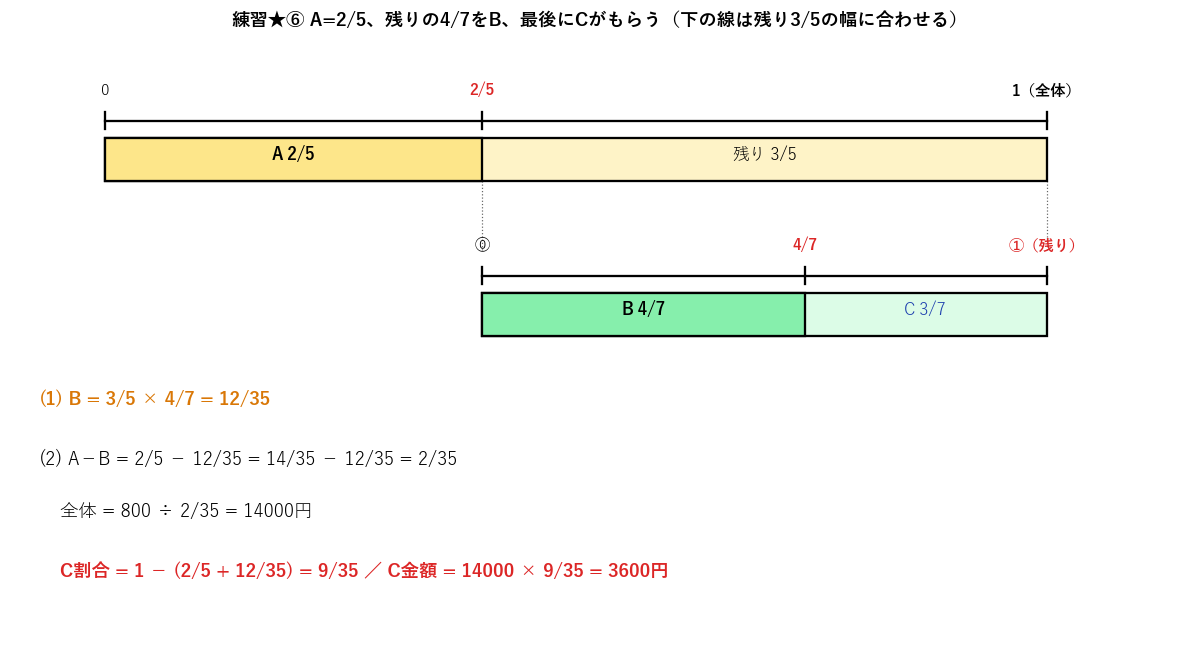
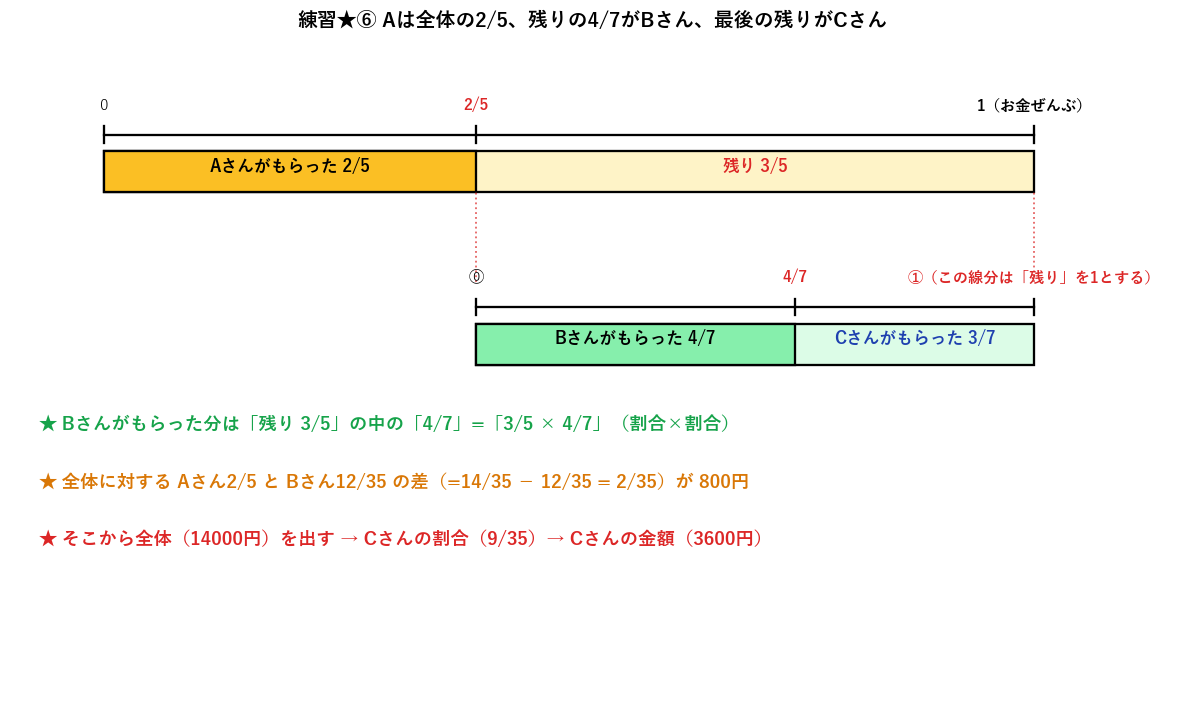
improve(wariai62): thorough step-by-step dialogs (why+how) + detailed R6 figure with red 残り

diff --git a/manabie-kaisetsu/index.html b/manabie-kaisetsu/index.html
@@ -2214,7 +2214,20 @@
       <div class="q-text">400ページある本の <b>2/5</b> を今日までに読み、残りの <b>1/6</b> を明日読もうと思います。明日読むのは何ページですか。</div>
       <figure class="fig"><img src="figs/W1_400_25_16.png" alt="例題1 線分図"><figcaption>📍 例題1の線分図（2本）</figcaption></figure>
       <div class="dialog">
-        <div class="d-line teacher"><span class="avatar">👩🏫</span><span class="bubble">きょうのポイントは「のこり」だよ。問題文をよく読んでみて。「<b>のこり</b>の1/6」って書いてあるよね。</span></div>
+        <div class="d-line teacher"><span class="avatar">👩🏫</span><span class="bubble">この問題でいちばん大事なのは「<b style='color:#dc2626'>のこり</b>」っていう言葉だよ。問題文をもう一度よく読んでみて。</span></div>
+        <div class="d-line sara"><span class="avatar">🧒</span><span class="bubble">「のこりの1/6」って書いてある。</span></div>
+        <div class="d-line teacher"><span class="avatar">👩🏫</span><span class="bubble">そう。じゃあ「のこり」ってどこのこと？ 全部のこと？</span></div>
+        <div class="d-line sara"><span class="avatar">🧒</span><span class="bubble">えーと、もう2/5は今日読んじゃったから…のこってるのは、まだ読んでない部分？</span></div>
+        <div class="d-line teacher"><span class="avatar">👩🏫</span><span class="bubble">大正解！「のこり」=「まだ読んでないページ」のことだよ。<br>だから「のこりの1/6」を出すには、<b>まずのこりが何ページか</b>を先に計算するんだ。</span></div>
+        <div class="d-line sara"><span class="avatar">🧒</span><span class="bubble">なるほど！</span></div>
+        <div class="d-line teacher"><span class="avatar">👩🏫</span><span class="bubble">じゃあのこりは全体のどれくらい？ 1から2/5を引けば出るよ。</span></div>
+        <div class="d-line sara"><span class="avatar">🧒</span><span class="bubble">1 − 2/5 = 5/5 − 2/5 = 3/5</span></div>
+        <div class="d-line teacher"><span class="avatar">👩🏫</span><span class="bubble">いいね！じゃあ400ページの3/5を計算してみよう。</span></div>
+        <div class="d-line sara"><span class="avatar">🧒</span><span class="bubble">400 × 3/5 = 240ページ</span></div>
+        <div class="d-line teacher"><span class="avatar">👩🏫</span><span class="bubble">バッチリ！この <b>240ページ</b> がのこり。明日読むのはこの中の1/6だから…？</span></div>
+        <div class="d-line sara"><span class="avatar">🧒</span><span class="bubble">240 × 1/6 = 240 ÷ 6 = 40ページ！</span></div>
+        <div class="d-line teacher"><span class="avatar">👩🏫</span><span class="bubble">正解！答えは <b>40ページ</b> だね。</span></div>
+      </div>
         <div class="d-line sara"><span class="avatar">🧒</span><span class="bubble">ほんとだ。じゃあ「のこり」って何のこと？</span></div>
         <div class="d-line teacher"><span class="avatar">👩🏫</span><span class="bubble">もう2/5は今日読んじゃったよね。だから「のこり」は、まだ読んでないページのことだよ。</span></div>
         <div class="d-line sara"><span class="avatar">🧒</span><span class="bubble">なるほど。じゃあ、のこりが何ページか先に出せばいいんだ。</span></div>
@@ -2232,7 +2245,14 @@
       <div class="q-text">300ページある本の <b>1/3</b> を今日までに読み、残りの <b>1/4</b> を明日読もうと思います。明日読むのは何ページですか。</div>
       <figure class="fig"><img src="figs/W2_300_13_14.png" alt="例題2 線分図"><figcaption>📍 例題2の線分図（2本）</figcaption></figure>
       <div class="dialog">
-        <div class="d-line teacher"><span class="avatar">👩🏫</span><span class="bubble">例題1とまったく同じ考え方だよ。まず「のこり」は何ページかな？</span></div>
+        <div class="d-line teacher"><span class="avatar">👩🏫</span><span class="bubble">例題1とおんなじ考え方だよ。「のこりの1/4」って書いてあるから、まずのこりを出そう。</span></div>
+        <div class="d-line sara"><span class="avatar">🧒</span><span class="bubble">読んだのは1/3だから、のこりは 1 − 1/3 = 3/3 − 1/3 = 2/3。</span></div>
+        <div class="d-line teacher"><span class="avatar">👩🏫</span><span class="bubble">そう！じゃあ300ページの2/3はいくつ？</span></div>
+        <div class="d-line sara"><span class="avatar">🧒</span><span class="bubble">300 × 2/3 = 200ページ。</span></div>
+        <div class="d-line teacher"><span class="avatar">👩🏫</span><span class="bubble">バッチリ。明日読むのはその200ページの1/4だから？</span></div>
+        <div class="d-line sara"><span class="avatar">🧒</span><span class="bubble">200 × 1/4 = 200 ÷ 4 = 50ページ！</span></div>
+        <div class="d-line teacher"><span class="avatar">👩🏫</span><span class="bubble">正解！「のこりの○○」が出てきたら、<b>まず のこり を計算</b>。これだけ覚えておこう。</span></div>
+      </div>
         <div class="d-line sara"><span class="avatar">🧒</span><span class="bubble">読んだのは1/3、のこりは2/3 だから 300 × 2/3 = 200ページ。</span></div>
         <div class="d-line teacher"><span class="avatar">👩🏫</span><span class="bubble">いいね！明日読むのはその200ページの1/4。</span></div>
         <div class="d-line sara"><span class="avatar">🧒</span><span class="bubble">200 ÷ 4 = 50ページ！</span></div>
@@ -2245,7 +2265,14 @@
     <div class="question" id="w62-concept"><h3><span class="qnum">ポイント</span>2本の線分図の使い分け</h3>
       <figure class="fig"><img src="figs/W_concept.png" alt="2本の線分図の概念"><figcaption>📍 1本目=1、2本目=① で区別</figcaption></figure>
       <div class="dialog">
-        <div class="d-line teacher"><span class="avatar">👩🏫</span><span class="bubble">「のこりの1/6」「のこりの3/5」みたいに、<b>のこり</b>が出てくる問題は線分図を2本かくよ。</span></div>
+        <div class="d-line teacher"><span class="avatar">👩🏫</span><span class="bubble">「のこりの1/6」「のこりの3/5」みたいに、問題文に「<b style='color:#dc2626'>のこり</b>」が出てくるときは、線分図を <b>2本</b> かくよ。</span></div>
+        <div class="d-line sara"><span class="avatar">🧒</span><span class="bubble">どうして2本も？</span></div>
+        <div class="d-line teacher"><span class="avatar">👩🏫</span><span class="bubble">1本だと「全体の1/6」なのか「のこりの1/6」なのかが、見ても分からなくなっちゃうからだよ。</span></div>
+        <div class="d-line sara"><span class="avatar">🧒</span><span class="bubble">あー、たしかに混ざりそう。</span></div>
+        <div class="d-line teacher"><span class="avatar">👩🏫</span><span class="bubble">だから1本目は <b>全体</b>を「1」と書く。2本目は <b>のこり</b>を「①」（マルイチ）と書いて区別するんだ。</span></div>
+        <div class="d-line sara"><span class="avatar">🧒</span><span class="bubble">ふつうの 1 と マルイチ ① を使い分けるんだね！</span></div>
+        <div class="d-line teacher"><span class="avatar">👩🏫</span><span class="bubble">そう！「1」は全体ぜんぶ、「①」はのこりぜんぶ、を表しているよ。</span></div>
+      </div>
         <div class="d-line sara"><span class="avatar">🧒</span><span class="bubble">どうして2本？</span></div>
         <div class="d-line teacher"><span class="avatar">👩🏫</span><span class="bubble">1本目は <b>全体</b> をふつうに「1」と書く。2本目は <b>のこり</b> を「①」（マルイチ）と書くよ。</span></div>
         <div class="d-line sara"><span class="avatar">🧒</span><span class="bubble">分けて書くと、まざらないね！</span></div>
@@ -2261,7 +2288,16 @@
       <div class="q-text">2000円持って買い物に行き、はじめ <b>2/5</b> のお金を使って本を買いました。次に、残りの <b>1/3</b> のお金を使ってノートを買いました。<br>② 本を買った残りのお金は何円ですか。<br>③ ノートを買うのに使ったお金は何円ですか。</div>
       <figure class="fig"><img src="figs/Y1_2000.png" alt="要点(1) 線分図"><figcaption>📍 2本の線分図（本／ノート）</figcaption></figure>
       <div class="dialog">
-        <div class="d-line teacher"><span class="avatar">👩🏫</span><span class="bubble">お買い物の問題だよ。まず、2000円のうち2/5で本を買ったよね。</span></div>
+        <div class="d-line teacher"><span class="avatar">👩🏫</span><span class="bubble">お買い物の話だね。2000円持ってて、まず本を買ったよ。</span></div>
+        <div class="d-line sara"><span class="avatar">🧒</span><span class="bubble">本に2/5使ったから…</span></div>
+        <div class="d-line teacher"><span class="avatar">👩🏫</span><span class="bubble">そう、本の値段は 2000 × 2/5 = 800円。じゃあ本を買ったあと、お財布の中はいくら？</span></div>
+        <div class="d-line sara"><span class="avatar">🧒</span><span class="bubble">2000 − 800 = 1200円！</span></div>
+        <div class="d-line teacher"><span class="avatar">👩🏫</span><span class="bubble">正解！もう一つの計算の仕方として「のこりは3/5」だから 2000 × 3/5 でも同じ答えになるよ。</span></div>
+        <div class="d-line sara"><span class="avatar">🧒</span><span class="bubble">2000 × 3/5 = 1200円。一緒だ！</span></div>
+        <div class="d-line teacher"><span class="avatar">👩🏫</span><span class="bubble">そう！これが ②の答え。じゃあ次に、その1200円の1/3でノートを買うよ。ノート代は？</span></div>
+        <div class="d-line sara"><span class="avatar">🧒</span><span class="bubble">1200 × 1/3 = 1200 ÷ 3 = 400円！</span></div>
+        <div class="d-line teacher"><span class="avatar">👩🏫</span><span class="bubble">バッチリ！「のこりの1/3」のもとは <b>本のあとの1200円</b>。これを間違えないでね。</span></div>
+      </div>
         <div class="d-line sara"><span class="avatar">🧒</span><span class="bubble">じゃあ本のあと、お財布にいくらのこってるかな？</span></div>
         <div class="d-line teacher"><span class="avatar">👩🏫</span><span class="bubble">そう、それを最初に出そう。本は2/5使った → のこりは 3/5。</span></div>
         <div class="d-line sara"><span class="avatar">🧒</span><span class="bubble">2000 × 3/5 = 1200円！ これが本を買った残りだね。</span></div>
@@ -2277,7 +2313,22 @@
       <div class="q-text">青色のテープがあります。1回目に全体の <b>25%</b> を使い、2回目は残りの <b>60%</b> を使ったところ、残りの長さは <b>48cm</b> になりました。<br>② 1回目に使った残りの長さは何cmですか。<br>③ はじめの長さは何cmでしたか。</div>
       <figure class="fig"><img src="figs/Y2_tape.png" alt="要点(2) 線分図"><figcaption>📍 2本の線分図（1回目/2回目）</figcaption></figure>
       <div class="dialog">
-        <div class="d-line teacher"><span class="avatar">👩🏫</span><span class="bubble">これは少しむずかしいよ。「最後にのこったのが48cm」しか教えてくれないんだ。</span></div>
+        <div class="d-line teacher"><span class="avatar">👩🏫</span><span class="bubble">これはちょっとむずかしい問題。最後に「のこりが48cm」って言われてるよ。</span></div>
+        <div class="d-line sara"><span class="avatar">🧒</span><span class="bubble">はじめの長さがわからないのに、最後の48cmだけ？ どうやるの？</span></div>
+        <div class="d-line teacher"><span class="avatar">👩🏫</span><span class="bubble">だいじょうぶ。<b>うしろから順にたどっていけば</b>必ず出せるよ。<br>まず、最後のところ（2回目）からみていこう。</span></div>
+        <div class="d-line sara"><span class="avatar">🧒</span><span class="bubble">2回目は「のこりの60%」を使ったんだよね。</span></div>
+        <div class="d-line teacher"><span class="avatar">👩🏫</span><span class="bubble">そう。60%使ったあとに、何%のこるかな？</span></div>
+        <div class="d-line sara"><span class="avatar">🧒</span><span class="bubble">100% − 60% = 40%</span></div>
+        <div class="d-line teacher"><span class="avatar">👩🏫</span><span class="bubble">そう！この <b style='color:#dc2626'>40%</b> が <b style='color:#dc2626'>48cm</b> なんだね。<br>「40%が48cm」ってわかると、「100%（=のこり全部）」が出せるよ。</span></div>
+        <div class="d-line sara"><span class="avatar">🧒</span><span class="bubble">えーと、40%が48cmだから…48 ÷ 0.4 = 120cm！</span></div>
+        <div class="d-line teacher"><span class="avatar">👩🏫</span><span class="bubble">バッチリ！② は <b>120cm</b>。これが「1回目を使ったあとののこり」だね。</span></div>
+        <div class="d-line sara"><span class="avatar">🧒</span><span class="bubble">じゃあ、はじめの長さも同じやり方で出せそう。</span></div>
+        <div class="d-line teacher"><span class="avatar">👩🏫</span><span class="bubble">そう！もう1段戻ろう。1回目に <b>25%</b> 使ったから、のこりは何%？</span></div>
+        <div class="d-line sara"><span class="avatar">🧒</span><span class="bubble">100% − 25% = 75%</span></div>
+        <div class="d-line teacher"><span class="avatar">👩🏫</span><span class="bubble">そう。75%が120cm。じゃあもとの100%（はじめの長さ）は？</span></div>
+        <div class="d-line sara"><span class="avatar">🧒</span><span class="bubble">120 ÷ 0.75 = 160cm！</span></div>
+        <div class="d-line teacher"><span class="avatar">👩🏫</span><span class="bubble">完璧！「最後 → 1つ前 → そのまた1つ前」と順番にたどれば、必ず答えにたどり着くよ。</span></div>
+      </div>
         <div class="d-line sara"><span class="avatar">🧒</span><span class="bubble">え、はじめの長さがわからないのに、48cmだけ？</span></div>
         <div class="d-line teacher"><span class="avatar">👩🏫</span><span class="bubble">だいじょうぶ！うしろから順に考えていけば出せるよ。まず、2回目について考えよう。</span></div>
         <div class="d-line sara"><span class="avatar">🧒</span><span class="bubble">2回目は「のこりの60%」を使ったんだよね。</span></div>
@@ -2303,7 +2354,18 @@
       <div class="q-text">BさんはAさんの2倍のおはじきを持っています。CさんはBさんの3倍のおはじきを持っています。CさんはAさんの何倍のおはじきを持っているでしょうか。</div>
       <figure class="fig"><img src="figs/K1_concept.png" alt="割合×割合の概念"><figcaption>📍 もとを1つにそろえる</figcaption></figure>
       <div class="dialog">
-        <div class="d-line teacher"><span class="avatar">👩🏫</span><span class="bubble">おはじきの問題だよ。BさんはAさんの2倍、CさんはBさんの3倍。CさんはAさんの何倍？</span></div>
+        <div class="d-line teacher"><span class="avatar">👩🏫</span><span class="bubble">おはじきの問題。BさんはAさんの2倍、CさんはBさんの3倍持ってる。</span></div>
+        <div class="d-line sara"><span class="avatar">🧒</span><span class="bubble">Cさんは Aさんの何倍？ うーん…</span></div>
+        <div class="d-line teacher"><span class="avatar">👩🏫</span><span class="bubble">じゃあAさんが5個持ってるとして考えてみよう。Bさんは？</span></div>
+        <div class="d-line sara"><span class="avatar">🧒</span><span class="bubble">5の2倍だから10個！</span></div>
+        <div class="d-line teacher"><span class="avatar">👩🏫</span><span class="bubble">Cさんは10個の3倍だから？</span></div>
+        <div class="d-line sara"><span class="avatar">🧒</span><span class="bubble">10 × 3 = 30個！</span></div>
+        <div class="d-line teacher"><span class="avatar">👩🏫</span><span class="bubble">そう！じゃあAさん5個に対してCさん30個は、何倍？</span></div>
+        <div class="d-line sara"><span class="avatar">🧒</span><span class="bubble">30 ÷ 5 = 6倍！</span></div>
+        <div class="d-line teacher"><span class="avatar">👩🏫</span><span class="bubble">そう！じつは「2倍 × 3倍 = 6倍」って、<b>2つの倍率をかけるだけで出る</b>んだ。</span></div>
+        <div class="d-line sara"><span class="avatar">🧒</span><span class="bubble">えっそれでいいの？</span></div>
+        <div class="d-line teacher"><span class="avatar">👩🏫</span><span class="bubble">そう。これが「<b style='color:#dc2626'>割合×割合</b>」の考え方だよ。<br>「のこりの○○」みたいに2段ある問題でも、これでまとめて計算できるんだ。</span></div>
+      </div>
         <div class="d-line sara"><span class="avatar">🧒</span><span class="bubble">うーん、Bさんを通すとややこしい…</span></div>
         <div class="d-line teacher"><span class="avatar">👩🏫</span><span class="bubble">じゃあAさんが5個持ってるとしてやってみよう。Bさんは？</span></div>
         <div class="d-line sara"><span class="avatar">🧒</span><span class="bubble">5の2倍だから10個！</span></div>
@@ -2318,7 +2380,16 @@
       <div class="q-text">ある本全体の <b>2/5</b> を今日までに読み、残りの <b>1/6</b> を明日読もうと思います。<br>(1) 残りは本全体のどれだけですか。<br>(2) 明日読むのは、本全体のどれだけにあたりますか。</div>
       <figure class="fig"><img src="figs/K2_book.png" alt="本全体の割合"><figcaption>📍 全体基準で見る</figcaption></figure>
       <div class="dialog">
-        <div class="d-line teacher"><span class="avatar">👩🏫</span><span class="bubble">例題1と同じシチュエーションだけど、聞いてるのが「<b>全体のどれだけ</b>」なのがポイント。</span></div>
+        <div class="d-line teacher"><span class="avatar">👩🏫</span><span class="bubble">例題1とよく似た問題だけど、答えが <b>ページ数</b> じゃなくて <b>分数（全体のどれだけ）</b> なのがポイント。</span></div>
+        <div class="d-line sara"><span class="avatar">🧒</span><span class="bubble">ページ数じゃなくて分数で答えるんだね。</span></div>
+        <div class="d-line teacher"><span class="avatar">👩🏫</span><span class="bubble">そう。まず のこりは全体のどれだけ？</span></div>
+        <div class="d-line sara"><span class="avatar">🧒</span><span class="bubble">1 − 2/5 = 3/5</span></div>
+        <div class="d-line teacher"><span class="avatar">👩🏫</span><span class="bubble">いいね。じゃあ明日読むのは、その のこりの1/6 だね。</span></div>
+        <div class="d-line sara"><span class="avatar">🧒</span><span class="bubble">えーと、それを全体基準にすると…？</span></div>
+        <div class="d-line teacher"><span class="avatar">👩🏫</span><span class="bubble">ここで「<b>割合×割合</b>」が使えるよ。<br>のこり（全体の3/5）の中の1/6 = 3/5 × 1/6</span></div>
+        <div class="d-line sara"><span class="avatar">🧒</span><span class="bubble">3/5 × 1/6 = 3/30 = 1/10</span></div>
+        <div class="d-line teacher"><span class="avatar">👩🏫</span><span class="bubble">バッチリ！明日読むのは <b>全体の1/10</b>。<br>これが「のこりの○○ → 全体の○○」に直す方法だよ。</span></div>
+      </div>
         <div class="d-line sara"><span class="avatar">🧒</span><span class="bubble">ページ数じゃなくて、分数で答えるってこと？</span></div>
         <div class="d-line teacher"><span class="avatar">👩🏫</span><span class="bubble">そう！のこりは全体の何分のいくつ？</span></div>
         <div class="d-line sara"><span class="avatar">🧒</span><span class="bubble">1 − 2/5 = 3/5。</span></div>
@@ -2338,7 +2409,18 @@
       <div class="q-text">あきら君の学校の6年生のうち、<b>6/11</b> は女子です。女子の <b>30%</b> にあたる <b>54人</b> がメガネをかけています。<br>(1) 女子の人数は何人ですか。<br>(2) 6年生の人数は何人ですか。</div>
       <figure class="fig"><img src="figs/R1_girls.png" alt="練習① 線分図"><figcaption>📍 女子を「①」基準にする</figcaption></figure>
       <div class="dialog">
-        <div class="d-line teacher"><span class="avatar">👩🏫</span><span class="bubble">この問題は「数が少ない方→多い方」へ進めるよ。54人 → 女子 → 6年生 の順番。</span></div>
+        <div class="d-line teacher"><span class="avatar">👩🏫</span><span class="bubble">この問題は「少ない人数 → 多い人数」へ進めていくよ。<br>「54人」から始まって「女子」→「6年生」と順に大きくしていくんだ。</span></div>
+        <div class="d-line sara"><span class="avatar">🧒</span><span class="bubble">54人って、女子のどれくらいの人数？</span></div>
+        <div class="d-line teacher"><span class="avatar">👩🏫</span><span class="bubble">「女子の <b>30%</b>」=「54人」 と書いてあるよ。じゃあ女子全員は何人？</span></div>
+        <div class="d-line sara"><span class="avatar">🧒</span><span class="bubble">30%は0.3だから、54 ÷ 0.3 = 180人！</span></div>
+        <div class="d-line teacher"><span class="avatar">👩🏫</span><span class="bubble">いいね！(1)の答えは <b>180人</b>。じゃあ次に6年生は？<br>女子180人は6年生の <b>6/11</b> にあたるよ。</span></div>
+        <div class="d-line sara"><span class="avatar">🧒</span><span class="bubble">180人が6/11なら…6年生は何人だろう？</span></div>
+        <div class="d-line teacher"><span class="avatar">👩🏫</span><span class="bubble">「6/11 が 180人」だから、「1（=全体）」を求めるには 180 を 6/11 で割ればいいよ。</span></div>
+        <div class="d-line sara"><span class="avatar">🧒</span><span class="bubble">180 ÷ 6/11 = 180 × 11/6</span></div>
+        <div class="d-line teacher"><span class="avatar">👩🏫</span><span class="bubble">÷分数は <b>逆さにしてかける</b> のがコツ。続けてみて。</span></div>
+        <div class="d-line sara"><span class="avatar">🧒</span><span class="bubble">180 × 11 ÷ 6 = 1980 ÷ 6 = 330人！</span></div>
+        <div class="d-line teacher"><span class="avatar">👩🏫</span><span class="bubble">正解！6年生は <b>330人</b> だね。</span></div>
+      </div>
         <div class="d-line sara"><span class="avatar">🧒</span><span class="bubble">54人は女子の30%だっけ。</span></div>
         <div class="d-line teacher"><span class="avatar">👩🏫</span><span class="bubble">そう！「女子の30%が54人」だから、女子全員は何人？</span></div>
         <div class="d-line sara"><span class="avatar">🧒</span><span class="bubble">30%は0.3だから、54 ÷ 0.3 = 180人！</span></div>
@@ -2354,7 +2436,16 @@
       <div class="q-text">ひろし君が学校に行くのに、全体の道のりの <b>2/3</b> は電車に乗り、残りの <b>3/4</b> はバスに乗り、残りの <b>500m</b> は歩きます。ひろし君の家から学校までの道のりは何kmありますか。</div>
       <figure class="fig"><img src="figs/R2_road.png" alt="練習② 道のり線分図"><figcaption>📍 残りの1/4 = 500m から逆算</figcaption></figure>
       <div class="dialog">
-        <div class="d-line teacher"><span class="avatar">👩🏫</span><span class="bubble">これは「いちばん最後（歩く500m）」からスタートする問題だよ。</span></div>
+        <div class="d-line teacher"><span class="avatar">👩🏫</span><span class="bubble">これは「いちばん最後の歩く500m」から逆にたどる問題だよ。</span></div>
+        <div class="d-line sara"><span class="avatar">🧒</span><span class="bubble">歩く500mって、のこりの何分のいくつなんだろう。</span></div>
+        <div class="d-line teacher"><span class="avatar">👩🏫</span><span class="bubble">バスがのこりの3/4。だから歩くは「のこりから3/4を引いた残り」だね。</span></div>
+        <div class="d-line sara"><span class="avatar">🧒</span><span class="bubble">1 − 3/4 = 1/4！ つまり 歩くは のこりの 1/4 ！</span></div>
+        <div class="d-line teacher"><span class="avatar">👩🏫</span><span class="bubble">そう！その1/4が500m。じゃあ <b>のこり全部</b> は何m？</span></div>
+        <div class="d-line sara"><span class="avatar">🧒</span><span class="bubble">1/4が500mなら、4倍すれば全部。<br>500 × 4 = 2000m = 2km</span></div>
+        <div class="d-line teacher"><span class="avatar">👩🏫</span><span class="bubble">いいね！この <b style='color:#dc2626'>2km</b> が「のこり全部」=「全体の1/3」 だね。</span></div>
+        <div class="d-line sara"><span class="avatar">🧒</span><span class="bubble">じゃあ全体は 2 ÷ 1/3 = 2 × 3 = 6km！</span></div>
+        <div class="d-line teacher"><span class="avatar">👩🏫</span><span class="bubble">バッチリ！家から学校まで <b>6km</b> だよ。</span></div>
+      </div>
         <div class="d-line sara"><span class="avatar">🧒</span><span class="bubble">歩くのって、のこりの何分のいくつ？</span></div>
         <div class="d-line teacher"><span class="avatar">👩🏫</span><span class="bubble">バスがのこりの3/4。だから歩くはのこりの 1 − 3/4 = <b>1/4</b>。</span></div>
         <div class="d-line sara"><span class="avatar">🧒</span><span class="bubble">じゃあ500mがのこりの1/4 ってこと？</span></div>
@@ -2371,7 +2462,14 @@
       <div class="q-text">ある本の <b>3/5</b> をきのうまでに読み、残りの <b>1/4</b> を今日読みました。今日読んだのは、本全体のどれだけにあたりますか。</div>
       <figure class="fig"><img src="figs/R3_book.png" alt="練習③ 線分図"><figcaption>📍 残り 2/5 の 1/4 を計算</figcaption></figure>
       <div class="dialog">
-        <div class="d-line teacher"><span class="avatar">👩🏫</span><span class="bubble">「今日読んだのは全体のどれだけ？」だから、分数で答えるよ。</span></div>
+        <div class="d-line teacher"><span class="avatar">👩🏫</span><span class="bubble">これは「割合×割合」をストレートに使う問題だよ。<br>「のこりの1/4」を「全体の○○」に直そう。</span></div>
+        <div class="d-line sara"><span class="avatar">🧒</span><span class="bubble">のこりは全体の何分のいくつ？</span></div>
+        <div class="d-line teacher"><span class="avatar">👩🏫</span><span class="bubble">1 − 3/5 を計算してみて。</span></div>
+        <div class="d-line sara"><span class="avatar">🧒</span><span class="bubble">1 − 3/5 = 5/5 − 3/5 = 2/5</span></div>
+        <div class="d-line teacher"><span class="avatar">👩🏫</span><span class="bubble">そう！のこりは全体の2/5。<br>今日はその2/5の1/4を読んだ。じゃあ全体ではどれだけ？</span></div>
+        <div class="d-line sara"><span class="avatar">🧒</span><span class="bubble">2/5 × 1/4 = 2/20 = 1/10</span></div>
+        <div class="d-line teacher"><span class="avatar">👩🏫</span><span class="bubble">正解！今日読んだのは <b>全体の1/10</b> だね。</span></div>
+      </div>
         <div class="d-line sara"><span class="avatar">🧒</span><span class="bubble">のこりは 1 − 3/5 = 2/5 だね。</span></div>
         <div class="d-line teacher"><span class="avatar">👩🏫</span><span class="bubble">そう！その のこり2/5 のさらに 1/4 が「今日」。</span></div>
         <div class="d-line sara"><span class="avatar">🧒</span><span class="bubble">2/5 × 1/4 = 2/20 = <b>1/10</b>！</span></div>
@@ -2385,7 +2483,18 @@
       <div class="q-text">なおみさんは、持っているお金の <b>40%</b> で本を買い、残りのお金の <b>25%</b> でノートを買いました。ノートの代金は、はじめに持っていたお金の何%にあたりますか。</div>
       <figure class="fig"><img src="figs/R4_money.png" alt="練習④ 線分図"><figcaption>📍 残り 60% の 25%</figcaption></figure>
       <div class="dialog">
-        <div class="d-line teacher"><span class="avatar">👩🏫</span><span class="bubble">「ノートははじめのお金の何%？」だから％で答えるよ。</span></div>
+        <div class="d-line teacher"><span class="avatar">👩🏫</span><span class="bubble">これも「割合×割合」だよ。％の問題だけど、やることは同じ。</span></div>
+        <div class="d-line sara"><span class="avatar">🧒</span><span class="bubble">のこりは全体の何%？</span></div>
+        <div class="d-line teacher"><span class="avatar">👩🏫</span><span class="bubble">100% − 40% を計算してみて。</span></div>
+        <div class="d-line sara"><span class="avatar">🧒</span><span class="bubble">100% − 40% = 60%</span></div>
+        <div class="d-line teacher"><span class="avatar">👩🏫</span><span class="bubble">いいね。じゃあその60%の25%がノート代。</span></div>
+        <div class="d-line sara"><span class="avatar">🧒</span><span class="bubble">％同士の掛け算ってどうやるの？</span></div>
+        <div class="d-line teacher"><span class="avatar">👩🏫</span><span class="bubble">％は小数にすると計算しやすいよ。60% = 0.6、25% = 0.25。</span></div>
+        <div class="d-line sara"><span class="avatar">🧒</span><span class="bubble">0.6 × 0.25 = …？</span></div>
+        <div class="d-line teacher"><span class="avatar">👩🏫</span><span class="bubble">ゆっくりやろう。0.6 × 25 = 15、それを ÷100 すると 0.15。</span></div>
+        <div class="d-line sara"><span class="avatar">🧒</span><span class="bubble">0.15 を％に戻すと <b>15%</b>！</span></div>
+        <div class="d-line teacher"><span class="avatar">👩🏫</span><span class="bubble">バッチリ！ノートははじめのお金の <b>15%</b> だよ。</span></div>
+      </div>
         <div class="d-line sara"><span class="avatar">🧒</span><span class="bubble">のこりは 100% − 40% = 60%。</span></div>
         <div class="d-line teacher"><span class="avatar">👩🏫</span><span class="bubble">そう！その60%の25%がノート代だよ。</span></div>
         <div class="d-line sara"><span class="avatar">🧒</span><span class="bubble">0.6 × 0.25 = 0.15 → <b>15%</b>！</span></div>
@@ -2399,7 +2508,24 @@
       <div class="q-text">AさんとBさんの2人が、昨日から同じ本を読み始めました。<br>Aさんは昨日全体の <b>2/5</b>、今日は全体の <b>1/6</b> を読みました。<br>Bさんは昨日全体の <b>1/3</b>、今日は残りの <b>3/5</b> を読みました。<br>AさんとBさんは、2日間でそれぞれ全体のどれだけを読んでいますか。</div>
       <figure class="fig"><img src="figs/R5_2people.png" alt="練習⑤ 線分図"><figcaption>📍 Aは全体基準、Bは2日目だけ残り基準</figcaption></figure>
       <div class="dialog">
-        <div class="d-line teacher"><span class="avatar">👩🏫</span><span class="bubble">AさんとBさんで「今日」の意味がちがうから、ゆっくり区別していこう。</span></div>
+        <div class="d-line teacher"><span class="avatar">👩🏫</span><span class="bubble">AさんとBさんで「今日」の意味がちがうから、よく区別してね。</span></div>
+        <div class="d-line sara"><span class="avatar">🧒</span><span class="bubble">Aさんは「今日全体の1/6」、Bさんは「今日のこりの3/5」だね。</span></div>
+        <div class="d-line teacher"><span class="avatar">👩🏫</span><span class="bubble">そう。Aさんは両方とも <b>全体基準</b>。だから単純に足すだけでOK。</span></div>
+        <div class="d-line sara"><span class="avatar">🧒</span><span class="bubble">Aさんは 2/5 + 1/6 だね。通分しないと足せないから…</span></div>
+        <div class="d-line teacher"><span class="avatar">👩🏫</span><span class="bubble">いいね。5と6の最小公倍数は？</span></div>
+        <div class="d-line sara"><span class="avatar">🧒</span><span class="bubble">30だよ。<br>2/5 = 12/30、1/6 = 5/30</span></div>
+        <div class="d-line teacher"><span class="avatar">👩🏫</span><span class="bubble">そう！じゃあ足してみて。</span></div>
+        <div class="d-line sara"><span class="avatar">🧒</span><span class="bubble">12/30 + 5/30 = 17/30</span></div>
+        <div class="d-line teacher"><span class="avatar">👩🏫</span><span class="bubble">バッチリ！<b>Aさん合計 = 17/30</b>。<br>次はBさん。Bさんの今日は「のこりの3/5」だから、まず全体に対する割合に直そう。</span></div>
+        <div class="d-line sara"><span class="avatar">🧒</span><span class="bubble">Bさんののこりは 1 − 1/3 = 2/3。</span></div>
+        <div class="d-line teacher"><span class="avatar">👩🏫</span><span class="bubble">いいね。その2/3の3/5（=今日）を全体基準にすると？</span></div>
+        <div class="d-line sara"><span class="avatar">🧒</span><span class="bubble">2/3 × 3/5 = 6/15 = 2/5</span></div>
+        <div class="d-line teacher"><span class="avatar">👩🏫</span><span class="bubble">そう、Bさんが今日読んだのは <b>全体の2/5</b>。<br>じゃあBさん合計は？</span></div>
+        <div class="d-line sara"><span class="avatar">🧒</span><span class="bubble">1/3 + 2/5。3と5の最小公倍数は15だから…<br>1/3 = 5/15、2/5 = 6/15</span></div>
+        <div class="d-line teacher"><span class="avatar">👩🏫</span><span class="bubble">いいね、足してみて。</span></div>
+        <div class="d-line sara"><span class="avatar">🧒</span><span class="bubble">5/15 + 6/15 = 11/15</span></div>
+        <div class="d-line teacher"><span class="avatar">👩🏫</span><span class="bubble">正解！<b>Bさん合計 = 11/15</b> だよ。</span></div>
+      </div>
         <div class="d-line sara"><span class="avatar">🧒</span><span class="bubble">Aさんは「今日全体の1/6」、Bさんは「今日のこりの3/5」だね。</span></div>
         <div class="d-line teacher"><span class="avatar">👩🏫</span><span class="bubble">そう！Aさんは <b>両方とも全体基準</b>だから、足すだけでOK。</span></div>
         <div class="d-line sara"><span class="avatar">🧒</span><span class="bubble">Aさん：2/5 + 1/6 = 12/30 + 5/30 = <b>17/30</b>。</span></div>
@@ -2416,7 +2542,42 @@
       <div class="q-text">A・B・Cの3人でお金を分けました。Aは全体の <b>2/5</b> をもらい、Bは残りの <b>4/7</b> をもらい、最後に残りをCがもらいました。AとBがもらった金額の差は <b>800円</b> でした。<br>(1) Bがもらった金額は、全体のどれだけになりましたか。<br>(2) Cは何円もらいましたか。</div>
       <figure class="fig"><img src="figs/R6_share.png" alt="練習⑥ 線分図"><figcaption>📍 A=2/5、残りの4/7をB</figcaption></figure>
       <div class="dialog">
-        <div class="d-line teacher"><span class="avatar">👩🏫</span><span class="bubble">これは少し長いから、いっしょに一段ずつ進めるね。まず B さんの「全体に対する割合」は？</span></div>
+        <div class="d-line teacher"><span class="avatar">👩🏫</span><span class="bubble">これは長い問題だから、いっしょに <b>一段ずつ</b> 進めていくよ。あせらずついてきてね。</span></div>
+        <div class="d-line sara"><span class="avatar">🧒</span><span class="bubble">はーい。</span></div>
+        <div class="d-line teacher"><span class="avatar">👩🏫</span><span class="bubble">まず、AとBの金額の差が <b>800円</b> って書いてあるよね。<br>でも、AとBの金額そのものは分かってない。</span></div>
+        <div class="d-line sara"><span class="avatar">🧒</span><span class="bubble">うん…どうやるんだろう？</span></div>
+        <div class="d-line teacher"><span class="avatar">👩🏫</span><span class="bubble">コツはね、<b>AとBが全体（=お金ぜんぶ）の何分のいくつにあたるか</b>を出すこと。<br>そうすると「2人の差は全体のどれだけ」もわかって、それが800円とつながるんだ。</span></div>
+        <div class="d-line sara"><span class="avatar">🧒</span><span class="bubble">なるほど、全体に対する割合をそろえるってこと？</span></div>
+        <div class="d-line teacher"><span class="avatar">👩🏫</span><span class="bubble">そう！まずAは「全体の2/5」って書いてある。これはOK。<br>問題はBさん。「<b>残りの</b>4/7」って書いてあるよね。</span></div>
+        <div class="d-line sara"><span class="avatar">🧒</span><span class="bubble">「残りの4/7」って、全体の何分のいくつだろう？</span></div>
+        <div class="d-line teacher"><span class="avatar">👩🏫</span><span class="bubble">ここで「<b style='color:#dc2626'>割合×割合</b>」が活躍するよ！<br>残りは 1 − 2/5 = 3/5。<br>Bさんはその「残り3/5」の中の4/7だから…</span></div>
+        <div class="d-line sara"><span class="avatar">🧒</span><span class="bubble">3/5 × 4/7 だね。</span></div>
+        <div class="d-line teacher"><span class="avatar">👩🏫</span><span class="bubble">計算してみて。</span></div>
+        <div class="d-line sara"><span class="avatar">🧒</span><span class="bubble">3 × 4 = 12、5 × 7 = 35 だから <b>12/35</b>。</span></div>
+        <div class="d-line teacher"><span class="avatar">👩🏫</span><span class="bubble">正解！これが(1)の答え。<b>Bさんは全体の12/35</b> をもらった。</span></div>
+        <div class="d-line sara"><span class="avatar">🧒</span><span class="bubble">ここから差を計算するんだね。</span></div>
+        <div class="d-line teacher"><span class="avatar">👩🏫</span><span class="bubble">そう！AとBの差は 2/5 − 12/35。通分して同じ分母にしよう。5と35だから…</span></div>
+        <div class="d-line sara"><span class="avatar">🧒</span><span class="bubble">分母35にそろえる。<br>2/5 = 14/35</span></div>
+        <div class="d-line teacher"><span class="avatar">👩🏫</span><span class="bubble">いいね。じゃあ引き算してみて。</span></div>
+        <div class="d-line sara"><span class="avatar">🧒</span><span class="bubble">14/35 − 12/35 = 2/35</span></div>
+        <div class="d-line teacher"><span class="avatar">👩🏫</span><span class="bubble">バッチリ！この <b>2/35</b> が <b>800円</b> にあたるんだ。</span></div>
+        <div class="d-line sara"><span class="avatar">🧒</span><span class="bubble">じゃあ全体は… 800円が2/35だから、35/35（=全部）はどうなる？</span></div>
+        <div class="d-line teacher"><span class="avatar">👩🏫</span><span class="bubble">「2/35が800円」だから「1（=全体）」を求めるには、800 ÷ 2/35 をすればいいよ。</span></div>
+        <div class="d-line sara"><span class="avatar">🧒</span><span class="bubble">÷分数は逆さにしてかけるから…<br>800 × 35/2 = 800 × 35 ÷ 2</span></div>
+        <div class="d-line teacher"><span class="avatar">👩🏫</span><span class="bubble">計算続けて。</span></div>
+        <div class="d-line sara"><span class="avatar">🧒</span><span class="bubble">800 × 35 = 28000。<br>28000 ÷ 2 = 14000</span></div>
+        <div class="d-line teacher"><span class="avatar">👩🏫</span><span class="bubble">正解！全体は <b>14000円</b>。あと一歩でCさんの金額が出るよ。</span></div>
+        <div class="d-line sara"><span class="avatar">🧒</span><span class="bubble">Cさんは「全体 − A − B」だね。</span></div>
+        <div class="d-line teacher"><span class="avatar">👩🏫</span><span class="bubble">そう！全体は 1（=35/35）、A は 2/5（=14/35）、B は 12/35。<br>これを使って Cさんの割合を出そう。</span></div>
+        <div class="d-line sara"><span class="avatar">🧒</span><span class="bubble">35/35 − 14/35 − 12/35 = 9/35</span></div>
+        <div class="d-line teacher"><span class="avatar">👩🏫</span><span class="bubble">バッチリ！Cさんは <b>全体の9/35</b>。<br>じゃあ金額は？</span></div>
+        <div class="d-line sara"><span class="avatar">🧒</span><span class="bubble">14000円の9/35 だから… 14000 × 9/35</span></div>
+        <div class="d-line teacher"><span class="avatar">👩🏫</span><span class="bubble">ゆっくり計算しよう。14000 ÷ 35 = ？</span></div>
+        <div class="d-line sara"><span class="avatar">🧒</span><span class="bubble">14000 ÷ 35 = 400</span></div>
+        <div class="d-line teacher"><span class="avatar">👩🏫</span><span class="bubble">そう！じゃあ 400 × 9 = ？</span></div>
+        <div class="d-line sara"><span class="avatar">🧒</span><span class="bubble">400 × 9 = 3600円！</span></div>
+        <div class="d-line teacher"><span class="avatar">👩🏫</span><span class="bubble">完璧！<b>Cさんは 3600円</b> もらったよ。長い問題でも、一段ずつ進めば必ず答えが出る、ってわかったね。</span></div>
+      </div>
         <div class="d-line sara"><span class="avatar">🧒</span><span class="bubble">Bはのこり3/5の4/7だから、3/5 × 4/7 = <b>12/35</b>。</span></div>
         <div class="d-line teacher"><span class="avatar">👩🏫</span><span class="bubble">そう！では A と B の差はいくつ？</span></div>
         <div class="d-line sara"><span class="avatar">🧒</span><span class="bubble">A=2/5。通分すると 14/35。差は 14/35 − 12/35 = <b>2/35</b>。</span></div>